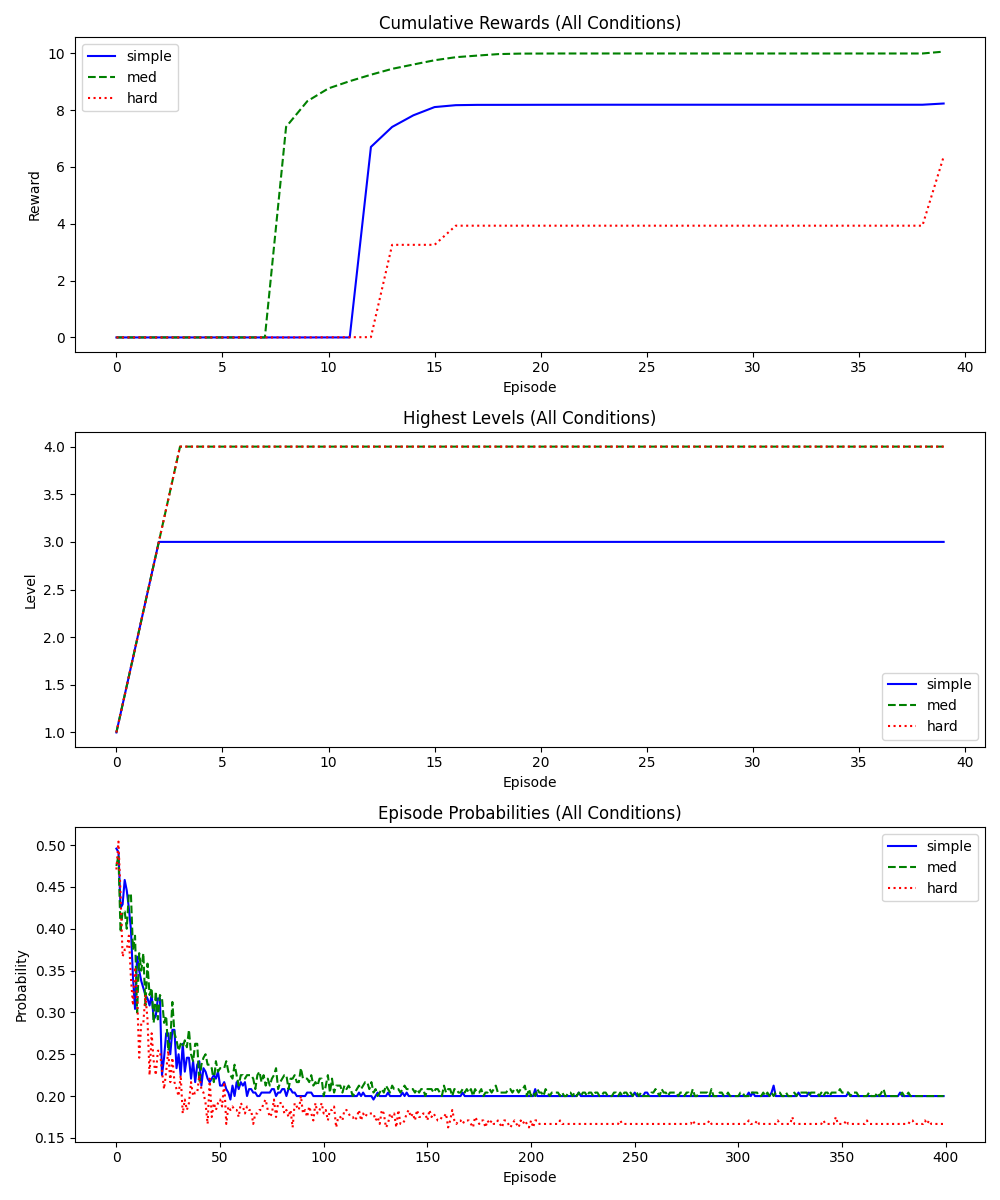
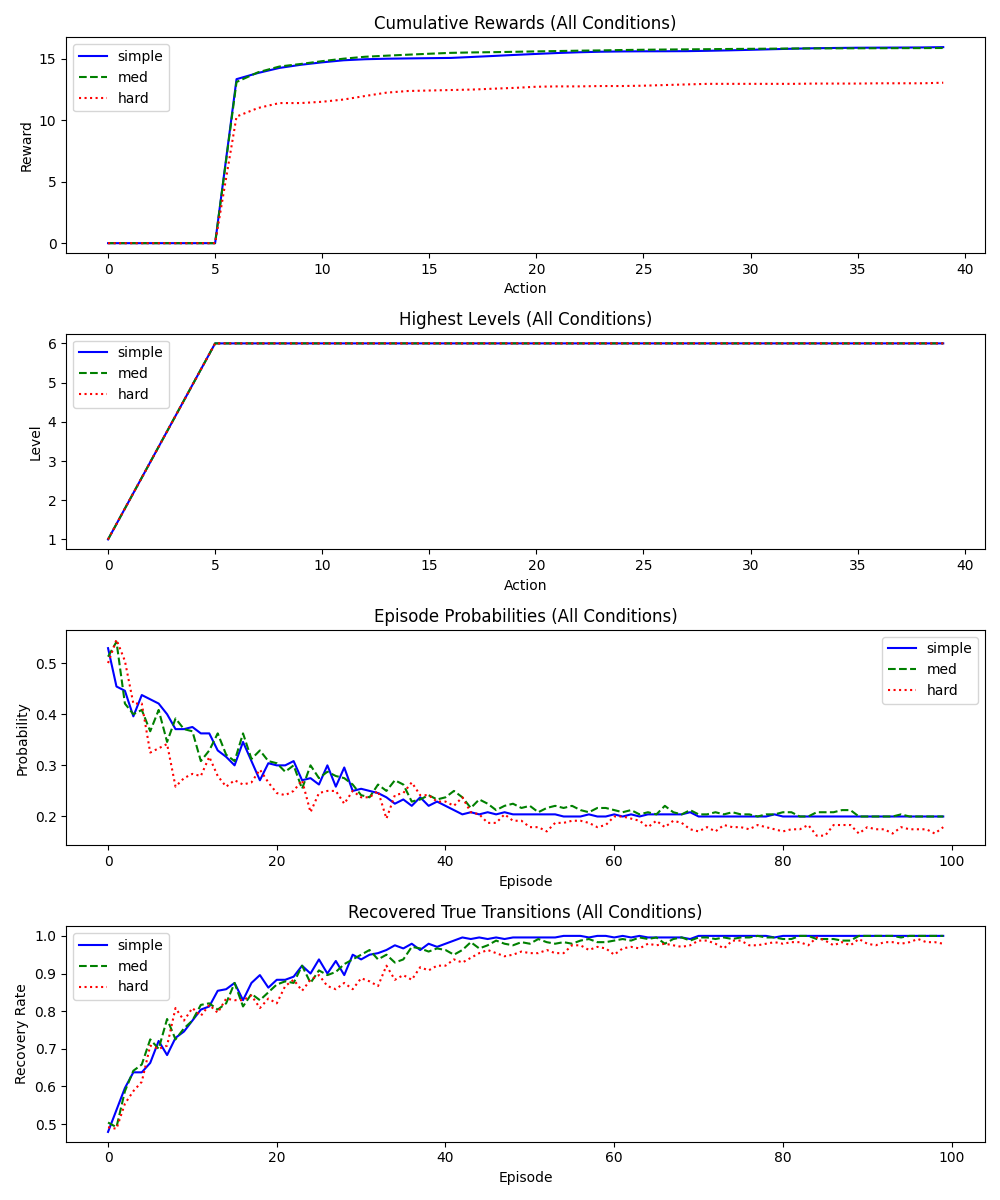
Debug base psrl agent

diff --git a/exp2/python/learner.py b/exp2/python/learner.py
@@ -27,10 +27,19 @@ def hard_task (pair):
     (m, n) = pair
     return m[0] + n[0] == 3 and m[1] >= n[1]
 
+def task_func(task, pair):
+    if task == 'simple':
+        return simple_task(pair)
+    elif task == 'med':
+        return med_task(pair)
+    elif task == 'hard':
+        return hard_task(pair)
 
 # %%
 # Base PSRL agent
 def find_combination(state_objs, state_levels, sampled_transitions):
+    state_objs = np.array(state_objs)
+
     # Create a mapping from level to object indices, sorted by level (highest to lowest)
     level_to_objects = {}
     for i, level in enumerate(state_levels):
@@ -54,19 +63,35 @@ def find_combination(state_objs, state_levels, sampled_transitions):
             obj = state_objs[obj_idx]
 
             # Find pairs where this object can be combined (transitions == 1)
-            matched_pairs = [pair for pair in norm_pairs 
-                            if sampled_transitions[norm_pairs.index(pair)] == 1 
-                            and (pair[0] == obj or pair[1] == obj)]            
-            if matched_pairs:
-                matched_objs = [pair[0] if pair[1] == obj else pair[1] for pair in matched_pairs]
-                intersection = [matched_obj for matched_obj in matched_objs if matched_obj in state_objs]
-                
-                if intersection:
-                    chosen_obj = intersection[np.random.choice(len(intersection))]
-                    chosen_obj_idx = state_objs.index(chosen_obj)
+            matched_pairs = [pair for pair in norm_pairs
+                if sampled_transitions[norm_pairs.index(pair)] == 1
+                and any(np.array_equal(p, obj) for p in pair)
+            ]
 
+            if matched_pairs:
+                matched_objs = [pair[0] if np.array_equal(pair[1], obj) else pair[1] for pair in matched_pairs]
+                intersection = []
+                for matched_obj in matched_objs:
+                    for i, state_obj in enumerate(state_objs):
+                        if np.array_equal(matched_obj, state_obj):
+                            intersection.append(i)         
+
+                if intersection:
+                    potential_partners = []
+                    for idx in intersection:
+                        # Compare face values (the first and second elements in the tuple)
+                        if (state_objs[idx][0] != obj[0] or state_objs[idx][1] != obj[1]):
+                            potential_partners.append(idx)
+
+                    if potential_partners:
+                        # Randomly choose a partner with different face value
+                        chosen_idx = np.random.choice(len(potential_partners))
+                        partner_idx = potential_partners[chosen_idx]
+                    
                     return [(state_objs[obj_idx][0], state_objs[obj_idx][1], state_levels[obj_idx]), 
-                            (state_objs[chosen_obj_idx][0], state_objs[chosen_obj_idx][1], state_levels[chosen_obj_idx])]
+                            (state_objs[partner_idx][0], state_objs[partner_idx][1], state_levels[partner_idx])]
+       
+                    
         
     # No valid combination found
     return None
@@ -105,88 +130,66 @@ def get_reward(action):
     else:
         return 10 ** action[0][2]
 
-
+# %%
 def update_states(task, action, action_left, state_objs, state_levels, regeneratable):
 
     action_left = action_left - 1
     if action is None or action_left < 0:
         return None
 
-    state_objs_list = list(state_objs)
+    state_objs = np.array(state_objs)
+    state_levels = np.array(state_levels)
+    regeneratable = np.array(regeneratable)
+
+    new_state_objs = state_objs
+    new_state_levels = state_levels
+    new_regeneratable = regeneratable
+
     if len(action) == 2:
         [m, n] = action
         norm_m = (m[0], m[1])
         norm_n = (n[0], n[1])
         
-        is_valid = False
-        if task == 'simple':
-            is_valid = simple_task((norm_m, norm_n))
-        if task == 'med':
-            is_valid = med_task((norm_m, norm_n))
-        if task == 'hard':
-            is_valid = hard_task((norm_m, norm_n))
-
+        is_valid = task_func(task, (norm_m, norm_n))
         
         if is_valid:
             new_obj = (norm_m[0], norm_n[1])
-            
-            # Find indices where the object matches m and n
-            m_indices = [i for i, (obj, level) in enumerate(zip(state_objs_list, state_levels)) 
-                 if obj == norm_m and level == m[2]]
-            n_indices = [i for i, (obj, level) in enumerate(zip(state_objs_list, state_levels)) 
-                 if obj == norm_n and level == n[2]]
-            
-            if m_indices and n_indices:
-                m_idx = m_indices[0]
-                n_idx = n_indices[0]
+            new_level = np.max([m[2], n[2]]) + 1
 
-                if regeneratable[m_idx] == 1 and regeneratable[n_idx] == 1:
-                    regeneratable[m_idx] = 0
-                    regeneratable[n_idx] = 0
-                
-                if regeneratable[m_idx] == 1 and  regeneratable[n_idx] == 0:
-                    regeneratable[m_idx] = 0
-                    new_state_objs = np.delete(state_objs, [n_idx], axis=0)
-                    new_state_levels = np.delete(state_levels, [n_idx], axis=0)
+            # check if remove or keep the used objects
+            for item in [norm_m, norm_n]:
+                m_index = np.where(np.all(state_objs == item, axis=1))[0][0]
+                #m_index = state_objs.index(item)
+                if state_levels[m_index] == 0 and regeneratable[m_index] == 1:
+                    new_regeneratable[m_index] = 0
 
-                if regeneratable[m_idx] == 0 and regeneratable[n_idx] == 1:
-                    regeneratable[n_idx] = 0
-                    new_state_objs = np.delete(state_objs, [m_idx], axis=0)
-                    new_state_levels = np.delete(state_levels, [m_idx], axis=0)
+                else:
+                    new_state_objs = np.delete(state_objs, [m_index], axis=0)
+                    new_state_levels = np.delete(state_levels, [m_index], axis=0)
+                    new_regeneratable = np.delete(regeneratable, [m_index], axis=0)
 
-                if regeneratable[m_idx] == 0 and regeneratable[n_idx] == 0:
-                    new_state_objs = np.delete(state_objs, [m_idx, n_idx], axis=0)
-                    new_state_levels = np.delete(state_levels, [m_idx, n_idx], axis=0)
-
-                # Add new_obj and new_level to state_objs and state_levels
-                new_state_objs = np.append(new_state_objs, [new_obj], axis=0)
-                new_level = np.max([m[2], n[2]]) + 1
-                new_state_levels = np.append(new_state_levels, new_level)
-                regeneratable = np.append(regeneratable, 0)
-        
-        else:   
-            return (action_left, state_objs, state_levels, regeneratable)
-    
+            # Add new_obj and new_level to state_objs and state_levels
+            new_state_objs = np.append(new_state_objs, [new_obj], axis=0)
+            new_state_levels = np.append(new_state_levels, new_level)
+            new_regeneratable = np.append(regeneratable, 0)
     else:
         (m, n, l) = action[0]
-        obj_indices = [i for i, (obj, level) in enumerate(zip(state_objs_list, state_levels)) 
-                 if obj == (m, n) and level == l]
-        obj_idx = obj_indices[0]
-
-        if regeneratable[obj_idx] == 1:
-            regeneratable[obj_idx] = 0
-            new_state_objs = state_objs
-            new_state_levels = state_levels
+        item = (m, n)
+        item_idx = np.where(np.all(state_objs == item, axis=1))[0][0]
+        #item_idx = state_objs.index(item)
+        if state_levels[item_idx] == 0 and regeneratable[item_idx] == 1:
+            new_regeneratable[item_idx] = 0
+        
         else:
-            new_state_objs = np.delete(state_objs, [obj_idx], axis=0)
-            new_state_levels = np.delete(state_levels, [obj_idx], axis=0)
+            new_state_objs = np.delete(state_objs, [item_idx], axis=0)
+            new_state_levels = np.delete(state_levels, [item_idx], axis=0)
+            new_regeneratable = np.delete(regeneratable, [item_idx], axis=0)
 
-    new_state_objs = [(i,j) for i,j in new_state_objs]
+    return (action_left, new_state_objs, new_state_levels, new_regeneratable)
 
-    return (action_left, new_state_objs, new_state_levels, regeneratable)
 
 # %%
-def run_condition(condition, num_episodes=10, num_actions=40):
+def run_condition(condition, num_episodes=100, num_actions=40):
     print(f"Running condition: {condition}")
 
     # Initialize variables
@@ -195,10 +198,14 @@ def run_condition(condition, num_episodes=10, num_actions=40):
     highst_levels = np.zeros((num_episodes, num_actions))
     # actions = np.full((num_episodes, num_actions), None)
     epi_probs = np.zeros(num_episodes)
+    recover_rate = np.zeros(num_episodes)
 
     # Initialize the prior
     prior_alphas = np.full(len(norm_pairs), 0.001)
     prior_betas = np.full(len(norm_pairs), 0.001)
+
+    # Prep for ground truth measure
+    true_transitions =  np.array([task_func(task, pair) for pair in norm_pairs]).astype(int)
 
     # Run base PSRL agent
     for episode in range(num_episodes):
@@ -206,6 +213,8 @@ def run_condition(condition, num_episodes=10, num_actions=40):
         sampled_probs = np.random.beta(prior_alphas, prior_betas)
         sampled_transitions = np.random.binomial(1, sampled_probs)
         epi_probs[episode] = sum(sampled_transitions)/len(sampled_transitions)
+        recover_rate[episode] = (true_transitions == sampled_transitions).sum() / len(sampled_transitions)
+        
     
         state_objs = norm_objs.copy()
         state_levels = np.zeros(len(norm_objs))
@@ -238,31 +247,20 @@ def run_condition(condition, num_episodes=10, num_actions=40):
                     norm_n = (n[0], n[1])
                     pair_idx = norm_pairs.index((norm_m, norm_n))
                     
-                    if task == 'simple':
-                        if simple_task((norm_m, norm_n)):
-                            prior_alphas[pair_idx] += 1
-                        else:
-                            prior_betas[pair_idx] += 1
+
+                    if task_func(task, (norm_m, norm_n)):
+                        prior_alphas[pair_idx] += 1
+                    else:
+                        prior_betas[pair_idx] += 1
                     
-                    if task == 'med':
-                        if med_task((norm_m, norm_n)):
-                            prior_alphas[pair_idx] += 1
-                        else:
-                            prior_betas[pair_idx] += 1
 
-                    if task == 'hard':
-                        if hard_task((norm_m, norm_n)):
-                            prior_alphas[pair_idx] += 1
-                        else:
-                            prior_betas[pair_idx] += 1
-
-    return condition, cum_rewards, highst_levels, epi_probs
+    return condition, cum_rewards, highst_levels, epi_probs, recover_rate
 
 # %%
 # Plot the results
-def plot_results(condition, cum_rewards, highst_levels, epi_probs):
+def plot_results(condition, cum_rewards, highst_levels, epi_probs, recover_rate):
     """ Plotting function runs only in the main process. """
-    fig, axs = plt.subplots(3, 1, figsize=(8, 10))
+    fig, axs = plt.subplots(4, 1, figsize=(8, 10))
     axs[0].plot(np.max(cum_rewards, axis=0))
     axs[0].set_title(f"Cumulative Rewards ({condition})")
     
@@ -272,35 +270,34 @@ def plot_results(condition, cum_rewards, highst_levels, epi_probs):
     axs[2].plot(epi_probs)
     axs[2].set_title(f"Episode Probabilities ({condition})")
     
+    axs[3].plot(recover_rate)
+    axs[3].set_title(f"Recovered True Transitions ({condition})")
+    
+
     plt.tight_layout()
     plt.savefig(f"{condition}_results.png")
     print(f"✅ Saved plot for {condition}")
 
 
+condition, cum_rewards, highst_levels, epi_probs, recover_rate = run_condition("simple", num_episodes=100, num_actions=40)
+plot_results("simple", cum_rewards, highst_levels, epi_probs, recover_rate)
+
+
+condition, cum_rewards, highst_levels, epi_probs, recover_rate = run_condition("med", num_episodes=100, num_actions=40)
+plot_results(condition, cum_rewards, highst_levels, epi_probs, recover_rate)
+
+
+condition, cum_rewards, highst_levels, epi_probs, recover_rate = run_condition("hard", num_episodes=100, num_actions=40)
+plot_results(condition, cum_rewards, highst_levels, epi_probs, recover_rate)
+
 
 # %%
-condition, cum_rewards, highst_levels, epi_probs = run_condition("simple", num_episodes=100, num_actions=40)
-plot_results("simple", cum_rewards, highst_levels, epi_probs)
-
-condition, cum_rewards, highst_levels, epi_probs = run_condition("med", num_episodes=100, num_actions=40)
-plot_results(condition, cum_rewards, highst_levels, epi_probs)
-
-
-condition, cum_rewards, highst_levels, epi_probs = run_condition("hard", num_episodes=100, num_actions=40)
-plot_results(condition, cum_rewards, highst_levels, epi_probs)
-
-
-# %%
-def run_single_condition(condition):
-    result = run_condition(condition, num_episodes=400, num_actions=40)
-    return result
-
 def run_all_conditions_parallel():
     conditions = ["simple", "med", "hard"]
     
     # Create a pool of workers and run the conditions in parallel
     with Pool(processes=3) as pool:
-        results = pool.map(run_single_condition, conditions)
+        results = pool.map(run_condition, conditions)
     
     # Unpack the results
     all_results = {}
@@ -309,16 +306,18 @@ def run_all_conditions_parallel():
             'condition': results[i][0],
             'cum_rewards': results[i][1],
             'highst_levels': results[i][2],
-            'epi_probs': results[i][3]
+            'epi_probs': results[i][3],
+            'recover_rate': results[i][4]
         }
         
-        # Save individual plots
-        plot_results(
-            condition,
-            all_results[condition]['cum_rewards'],
-            all_results[condition]['highst_levels'],
-            all_results[condition]['epi_probs']
-        )
+        # # Save individual plots
+        # plot_results(
+        #     condition,
+        #     all_results[condition]['cum_rewards'],
+        #     all_results[condition]['highst_levels'],
+        #     all_results[condition]['epi_probs'],
+        #     all_results[condition]['recover_rate']
+        # )
     
     return all_results
 
@@ -335,7 +334,7 @@ def plot_combined_results(all_results):
     }
     
     # Create three subplots
-    fig, axs = plt.subplots(3, 1, figsize=(10, 12))
+    fig, axs = plt.subplots(4, 1, figsize=(10, 12))
     
     # Plot rewards
     for condition in conditions:
@@ -347,7 +346,7 @@ def plot_combined_results(all_results):
             linestyle=styles[condition]['linestyle']
         )
     axs[0].set_title("Cumulative Rewards (All Conditions)")
-    axs[0].set_xlabel("Episode")
+    axs[0].set_xlabel("Action")
     axs[0].set_ylabel("Reward")
     axs[0].legend()
     
@@ -360,7 +359,7 @@ def plot_combined_results(all_results):
             linestyle=styles[condition]['linestyle']
         )
     axs[1].set_title("Highest Levels (All Conditions)")
-    axs[1].set_xlabel("Episode")
+    axs[1].set_xlabel("Action")
     axs[1].set_ylabel("Level")
     axs[1].legend()
     
@@ -376,6 +375,19 @@ def plot_combined_results(all_results):
     axs[2].set_xlabel("Episode")
     axs[2].set_ylabel("Probability")
     axs[2].legend()
+
+    # Plot recovery rates
+    for condition in conditions:
+        axs[3].plot(
+            all_results[condition]['recover_rate'],
+            label=condition,
+            color=styles[condition]['color'],
+            linestyle=styles[condition]['linestyle']
+        )
+    axs[3].set_title("Recovered True Transitions (All Conditions)")
+    axs[3].set_xlabel("Episode")
+    axs[3].set_ylabel("Recovery Rate")
+    axs[3].legend()
     
     plt.tight_layout()
     plt.savefig("combined_results.png")
